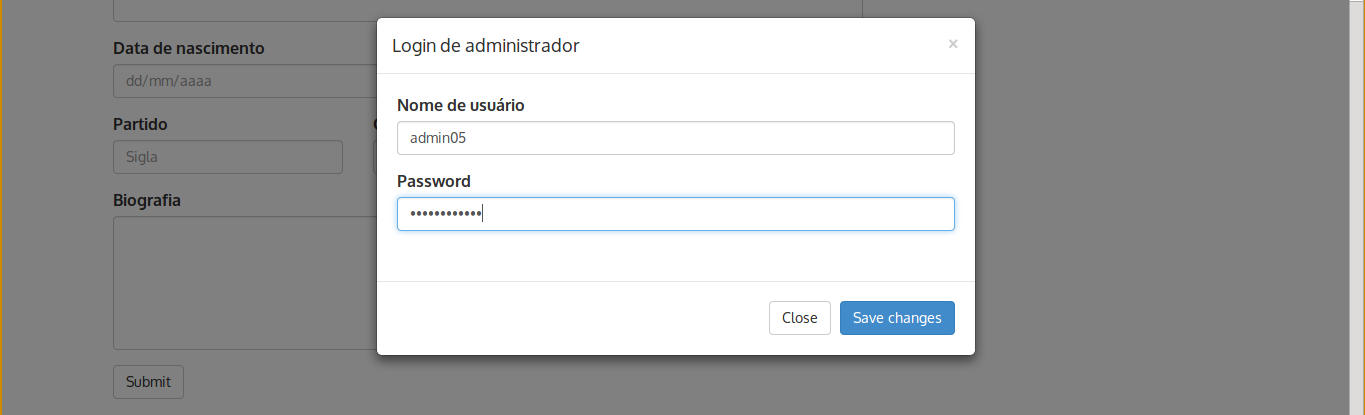
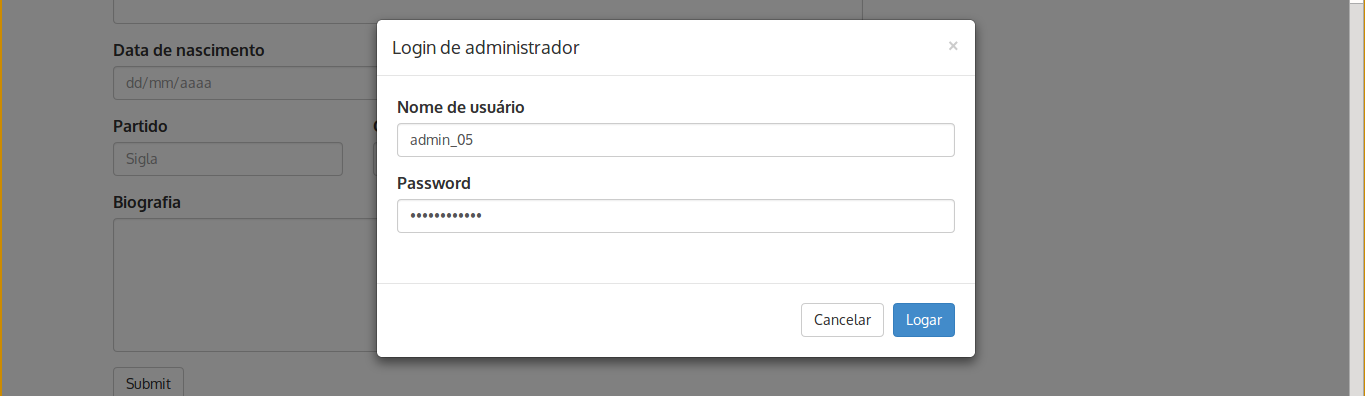
Correção da tela de login

diff --git a/layout/createparlamentar.html b/layout/createparlamentar.html
@@ -115,8 +115,7 @@
     Login
     </button>
 
-    <!-- Modal -->
-    <div class="modal fade" id="myModal" tabindex="-1" role="dialog" aria-labelledby="myModalLabel" aria-hidden="true">
+    <div class="modal fade" id="myModal" tabindex="-1" role="dialog" aria-labelledby="loginmodal" aria-hidden="true">
     <div class="modal-dialog">
         <div class="modal-content">
         <div class="modal-header">
@@ -134,8 +133,8 @@
             </div>
         </div>
         <div class="modal-footer">
-            <button type="button" class="btn btn-default" data-dismiss="modal">Close</button>
-            <button type="button" class="btn btn-primary">Save changes</button>
+            <button type="button" class="btn btn-default" data-dismiss="modal">Cancelar</button>
+            <button type="button" class="btn btn-primary">Logar</button>
         </div>
         </div>
     </div>
